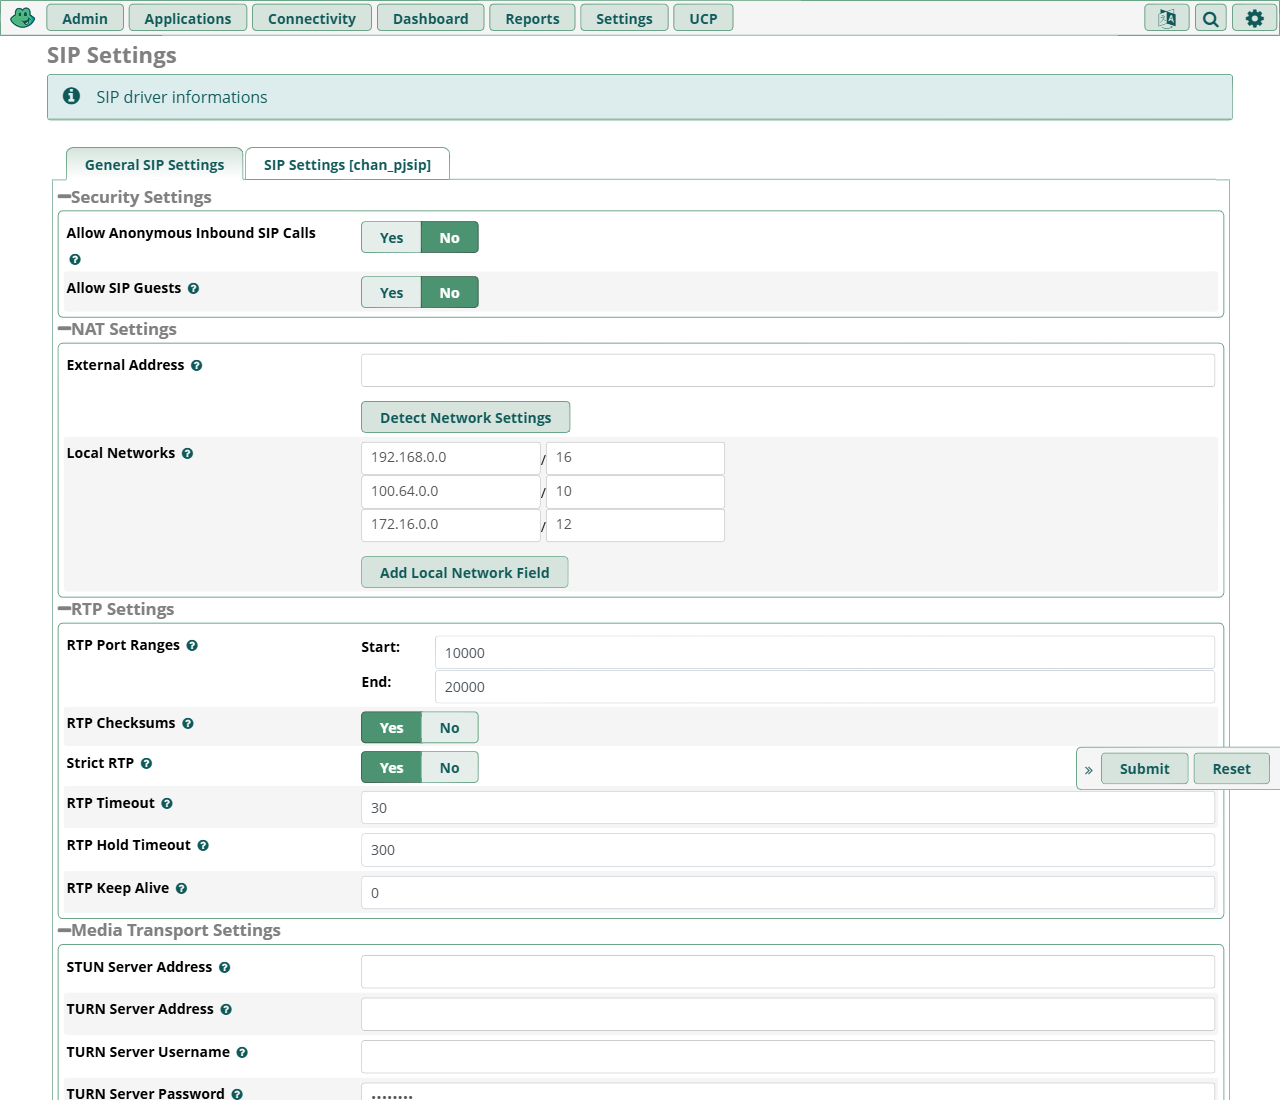
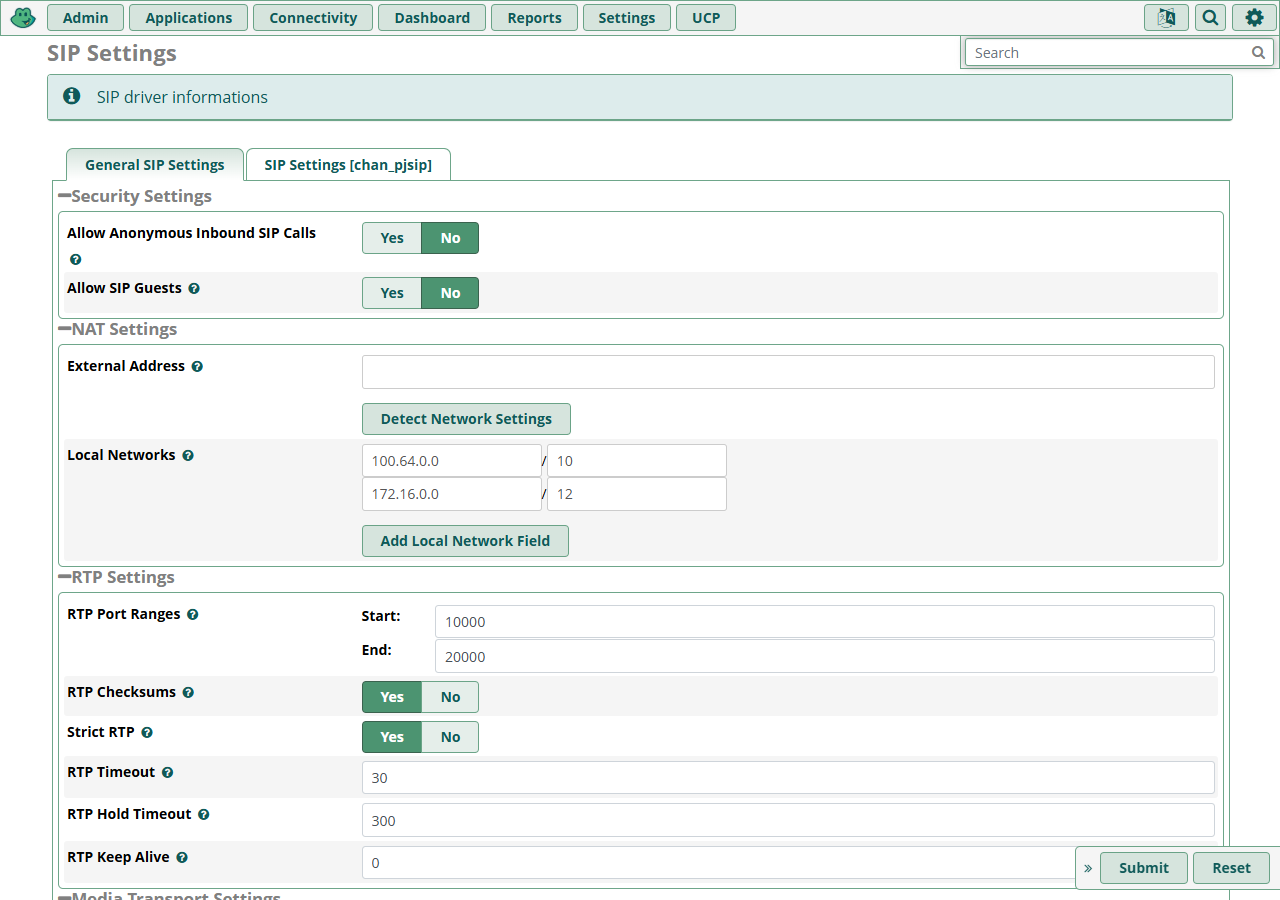
docs: capturas de la PBX en clase B, sesion del 26/10 y checklist para la replica del sabado
Capturas 04, 15 y 23 retomadas tras quitar las redes 192.168.x del firewall y de SIP. Nueva figura 50 con el CDR del 26/10. CHECKLIST-SABADO.md con el orden de armado, las pruebas y las capturas de Winbox pendientes. pruebas/Captura.ps1 guarda la ventana activa en capturas/ con el nombre de la figura.

diff --git a/CHECKLIST-SABADO.md b/CHECKLIST-SABADO.md
@@ -1,0 +1,139 @@
+# Checklist del sábado. Armar, probar y capturar
+
+**Centro Médico Horizonte, S.A. · PF-TEL-001-2026**
+Preparado el 27/10/2026 para la réplica del sábado 31/10.
+
+Todo lo de la PBX ya está listo y capturado. Lo único que falta depende del router armado. Esta lista dice en qué orden hacerlo para que salga a la primera. Las pruebas en detalle están en [`PRUEBAS-ENTREGA.md`](PRUEBAS-ENTREGA.md).
+
+---
+
+## 1. Qué llevar
+
+| Equipo | Para qué |
+|---|---|
+| hEX RB750Gr3 con su fuente | Router, VLAN, firewall y QoS |
+| AP Mercusys MW325R con su fuente | Wi-Fi `CMH-Voz` para los celulares |
+| 3 cables de red | ether2 al AP, AP a la laptop host y ether4 a la laptop del compañero |
+| Xiaomi 11T y su cable USB | Internet del router (anclaje USB) |
+| Laptop host (Isaac) | VM de la PBX, Linphone 5001, iperf3 servidor y Winbox |
+| Laptop del compañero | Linphone 4001, iperf3 cliente y `pruebas/Probar-Vlan.ps1` |
+| 2 celulares con Linphone | Extensiones 3001 y 5002 con dominio `172.16.20.10` |
+
+---
+
+## 2. Encendido, en este orden
+
+1. **Xiaomi.** Datos móviles encendidos y el cable al USB del hEX. Activar *Anclaje USB* en el celular.
+2. **hEX.** Encenderlo y esperar un minuto. En Winbox se ve `lte1` con IP en *IP → DHCP Client*.
+3. **AP.** Cable de ether2 del hEX a un puerto LAN del AP (en modo punto de acceso no se usa el WAN). Su IP es 172.16.20.2 y su DHCP sigue apagado.
+4. **Laptop host.** Cable a un puerto LAN del AP, Wi-Fi apagado. `ipconfig` debe dar **172.16.20.20**.
+5. **VM de la PBX.** En PowerShell:
+   ```powershell
+   & "C:\Program Files\Oracle\VirtualBox\VBoxManage.exe" startvm CMH-FreePBX --type headless
+   ```
+   Tarda unos **4 minutos** en quedar lista (el servicio `freepbx` pasa de *activating* a *active*). Antes de eso los teléfonos no registran.
+6. **Celulares.** Wi-Fi `CMH-Voz`, IP 172.16.20.1xx. Linphone en verde.
+7. **Laptop del compañero.** Cable en **ether4**, Wi-Fi apagado, `ipconfig /renew`. IP 172.16.30.1xx. Linphone 4001 en verde.
+
+**Revisión rápida (2 minutos).** Desde la laptop host:
+
+```powershell
+ping 172.16.20.10
+ssh -t -i "$env:USERPROFILE\.ssh\cmh_pbx_ed25519" -p 2222 cmhadmin@127.0.0.1 "sudo asterisk -rx 'pjsip show contacts'; sudo asterisk -rx 'pjsip show registrations'"
+```
+
+Deben salir los teléfonos con *Avail* y la troncal `sip2sip` en *Registered*. Si un teléfono no registra por contraseñas malas, está bloqueado por fail2ban (ver la nota de la sección 1 de `PRUEBAS-ENTREGA.md`).
+
+---
+
+## 3. Pruebas, en este orden
+
+| Paso | Qué | Dónde está el detalle |
+|---|---|---|
+| 1 | Evidencia del router **antes**, con contadores en cero | `PRUEBAS-ENTREGA.md` sección 3, paso 1 |
+| 2 | `Probar-Vlan.ps1` en ether4 (Admin), en la laptop host (Voz) y en ether5 (Invitados) | Sección 3 |
+| 3 | Ronda de llamadas TEL-01 a TEL-11 | Sección 4 |
+| 4 | Evidencia del router **después** | Sección 3, paso 3 |
+| 5 | QoS con y sin prioridad | Sección 5 |
+| 6 | Extras E1, E3 y una función del E4 | Sección 6 |
+
+---
+
+## 4. Capturas pendientes
+
+Las capturas del hEX que hay en `capturas/` son del 20/10, todavía con 192.168.x. Se reemplazan con **el mismo nombre de archivo**, así la `GUIA-DEMO.md` las muestra sola sin editarla.
+
+**Cómo capturar.** En la laptop conectada a **ether3** (Gestión), abrir la pantalla en Winbox y en PowerShell, desde la carpeta `pruebas`:
+
+```powershell
+.\Captura.ps1 34-hex-direcciones
+```
+
+El script espera 3 segundos para pasar a la ventana (Alt+Tab), captura solo esa ventana y la guarda en `capturas/` con ese nombre. Con `-PantallaCompleta` toma toda la pantalla.
+
+### 4.1 Router hEX (Winbox desde ether3)
+
+| Archivo | Ruta en Winbox | Qué debe verse |
+|---|---|---|
+| `30-hex-sistema-usuarios` | *New Terminal*: `/system resource print`, `/system routerboard print`, `/user print`, `/ip firewall service-port print where name=sip` | RouterOS 7.24.x, solo el usuario `cmh-ti` y SIP ALG con X |
+| `31-hex-interfaces` | *Interfaces → Interface* | `br-lan`, las cuatro VLAN, ether1 a ether5 y **`lte1`** |
+| `33-hex-bridge-vlan` | *Bridge → VLANs* | VLAN 10, 20, 30 y 40 con su puerto sin etiqueta (VLAN-01) |
+| `34-hex-direcciones` | *IP → Addresses* | 172.16.10.1, 172.16.20.1, 172.16.30.1 y 172.16.40.1, todas /24 |
+| `35a-hex-dhcp-servidores` | *IP → DHCP Server → DHCP* | Cuatro servidores, uno por VLAN |
+| `35b-hex-dhcp-leases` | *IP → DHCP Server → Leases* | PBX 172.16.20.10, laptop host .20, celulares y laptop del compañero en .1xx (VLAN-03) |
+| `36-hex-firewall-filter` | *IP → Firewall → Filter Rules*, después de las llamadas | M2 y M3 con paquetes, M6 con los bloqueos |
+| `37-hex-nat` | *IP → Firewall → NAT* | Masquerade hacia la lista `WAN` (incluye `lte1`) |
+| `38-hex-mangle` | *IP → Firewall → Mangle* | Marcado EF, CS3 y AF21 |
+| `39-hex-queue-tree` | *Queues → Queue Tree* | `q-wan` con parent **`lte1`** y las colas de prioridad activas |
+| `40-hex-servicios` | *IP → Services* | Winbox y SSH solo desde 172.16.10.0/24 |
+| `42-hex-wan-lte1` (nueva) | *IP → DHCP Client* | `lte1` en *bound* con la IP que da el Xiaomi |
+
+`30b`, `32` y `37b` no cambian con la migración y se pueden dejar.
+
+### 4.2 Punto de acceso (navegador en `http://172.16.20.2`)
+
+| Archivo | Pantalla | Qué debe verse |
+|---|---|---|
+| `41-ap-lan` | *Network → LAN* | IP fija 172.16.20.2, puerta de enlace 172.16.20.1 |
+| `43-ap-wifi` (nueva) | *Wireless* | SSID `CMH-Voz`, WPA2-PSK AES, canal fijo, WPS apagado. **Contraseña oculta** |
+
+### 4.3 PBX y teléfonos
+
+| Archivo | Dónde | Qué debe verse |
+|---|---|---|
+| `20-telefonos-registrados` | FreePBX, *Reports → Asterisk Info → Peers* (en `http://127.0.0.1:18080` desde la laptop host) | Al menos 4 extensiones en *Avail* con IP 172.16.x (§5.7) |
+| `55-sesion-cdr-sabado` (nueva) | FreePBX, *Reports → CDR Reports* con la fecha del sábado | Las llamadas de la ronda TEL-01 a TEL-11 |
+| `56-linphone-4001` (nueva) | Linphone en la laptop del compañero | Cuenta 4001 en verde con dominio 172.16.20.10 (VLAN-04) |
+
+### 4.4 Pruebas de red
+
+| Archivo | Dónde | Qué debe verse |
+|---|---|---|
+| `60-acl-vlan30-admin` | Terminal de `Probar-Vlan.ps1` en ether4 | 11 de 11 *Cumple* |
+| `61-acl-vlan20-voz` | Terminal de `Probar-Vlan.ps1` en la laptop host | 8 de 8 *Cumple* |
+| `62-acl-vlan40-invitados` | Terminal de `Probar-Vlan.ps1` en ether5 | Todas *Cumple* |
+| `63-qos-con-prioridad` | Terminal del iperf3 de 69k, ronda con QoS | Pérdida cercana a 0 % |
+| `64-qos-sin-prioridad` | Terminal del iperf3 de 69k, ronda sin QoS | Pérdida alta |
+| `65-qos-colas` | Winbox, `/queue tree print stats where name~"q-voz"` | Paquetes de voz sin descartes |
+
+Las fotos de los celulares (IP del Wi-Fi para VLAN-05 y llamadas con la hora visible) se pasan a `capturas/` con nombres que empiecen en `57-`.
+
+---
+
+## 5. Archivos que hay que recoger
+
+- El `.md` que deja `Probar-Vlan.ps1` en la laptop del compañero (carpeta `resultados` junto al script). Va a `pruebas/resultados/`. **El del 26/10 desde Admin (`vlan30-20261026-175225.md`) no se alcanzó a copiar**, así que el del sábado lo reemplaza.
+- Las carpetas `pruebas/evidencias/router-...-antes` y `...-despues` que crea `Evidencia-Router.ps1`. Si la llave del hEX no está importada, el encabezado del script dice cómo hacerlo.
+
+---
+
+## 6. Al terminar
+
+```powershell
+cd C:\Users\Asus\Projects\cmh-horizonte
+git add capturas pruebas
+git commit -m "test: replica del 31/10 con capturas del hEX en clase B"
+git push
+```
+
+Antes de salir, apagar la VM con `VBoxManage controlvm CMH-FreePBX acpipowerbutton` para no dañar la base de datos.

diff --git a/GUIA-DEMO.md b/GUIA-DEMO.md
@@ -1,15 +1,16 @@
 # GUÍA DEMO · Documentación de lo realizado
 **Centro Médico Horizonte, S.A. · PF-TEL-001-2026**
-Última actualización: 23/10/2026
+Última actualización: 27/10/2026
 
 Registro visual de todo lo configurado en el proyecto, para el equipo y para la defensa. Cada captura indica su ruta dentro del sistema y explica qué se hizo y por qué. El avance se agrega por componente.
 
 | Componente | Estado | Sección |
 |---|---|---|
 | PBX FreePBX en máquina virtual | Configurada y probada con llamadas reales, extras E1, E3 y E4 completos | 2 a 7 |
-| Router MikroTik RB750Gr3 (hEX) | VLAN, DHCP, NAT, firewall y QoS cargados (20/10). Faltan las pruebas y las mediciones | 8 |
+| Router MikroTik RB750Gr3 (hEX) | Migrado a clase B y con `lte1` como WAN (26/10). ACL y QoS probadas el 26/10. Las capturas de Winbox se rehacen el 31/10 | 8 y 13 |
 | Punto de acceso Mercusys MW325R | En modo AP con `CMH-Voz` en la VLAN 20 (20/10). Falta la captura del Wi-Fi | 9 |
 | Sesión de pruebas con el equipo | Pruebas 1 a 17 y 19 completas el 23/10. La 18 y la 20 con evidencia del 19 y 20/10 | 12 |
+| Sesión con el router en clase B | Llamadas entre VLAN, buzón, IVR, ACL y QoS el 26/10 | 13 |
 
 > Las capturas están en la carpeta `capturas/` y no muestran contraseñas. Para verlas dentro de este documento se recomienda un visor de Markdown, por ejemplo GitHub o VS Code (**Ctrl+Shift+V**). Las extensiones de cada integrante y las pruebas por persona están en `GUIA-CELULARES.md`.
 
@@ -161,7 +162,7 @@ Registro visual de todo lo configurado en el proyecto, para el equipo y para la 
 
 ![Redes Trusted y Local](capturas/15-firewall-redes.png)
 
-> **Qué se hizo.** Se activó el firewall de FreePBX y se definieron las redes de confianza. En **Trusted** (acceso total) quedaron la laptop que administra la VM (10.0.2.2) y la VLAN 10 de Gestión. En **Local** (solo teléfonos) quedaron la VLAN 20 de Voz, la VLAN 30 Administrativa, Tailscale y las redes de prueba. Cualquier otra red cae en la zona *Internet*, sin acceso.
+> **Qué se hizo.** Se activó el firewall de FreePBX y se definieron las redes de confianza. En **Trusted** (acceso total) quedaron la laptop que administra la VM (10.0.2.2) y la VLAN 10 de Gestión (172.16.10.0/24). En **Local** (solo teléfonos) quedaron la VLAN 20 de Voz (172.16.20.0/24), la VLAN 30 Administrativa (172.16.30.0/24), Tailscale y las redes de prueba. Cualquier otra red cae en la zona *Internet*, sin acceso. La captura es del 27/10, después de quitar las redes 192.168.x del diseño anterior.
 
 **Figura 20. Servicios permitidos por zona.** Ruta: *Connectivity → Firewall → Services*
 
@@ -220,7 +221,7 @@ Los teléfonos usados son **MicroSIP** en laptop y **Linphone** en celulares. La
 
 ![Redes de Tailscale y de prueba](capturas/23-e1-firewall-redes.png)
 
-> **Qué se hizo.** La red de Tailscale (**100.64.0.0/10**) está en zona Local. Se agregó también la red **192.168.1.0/24** para pruebas fuera del router. Con el router instalado, los teléfonos entran por las VLAN 20 y 30, que ya están en la lista.
+> **Qué se hizo.** La red de Tailscale (**100.64.0.0/10**) está en zona Local. Se agregaron también la red **192.168.1.0/24** y el hotspot del iPhone (172.20.10.0/28) para pruebas fuera del router. Con el router instalado, los teléfonos entran por las VLAN 20 y 30 en clase B (172.16.20.0/24 y 172.16.30.0/24), que ya están en la lista.
 
 **Figura 27. Llamada de prueba desde datos móviles.** Ruta: *Reports → CDR Reports*
 
@@ -272,7 +273,9 @@ Los teléfonos usados son **MicroSIP** en laptop y **Linphone** en celulares. La
 
 ## 8. Router MikroTik RB750Gr3 (hEX)
 
-Configurado el 20/10 con RouterOS 7.24.5 y los tres scripts de `plan/02_RED_MIKROTIK_HEX_Y_AP.md` (base, firewall y QoS). Las capturas son de Winbox, conectado desde la VLAN 10 de Gestión. Faltan las mediciones de QoS con y sin prioridad.
+Configurado el 20/10 con RouterOS 7.24.5 y los tres scripts de `plan/02_RED_MIKROTIK_HEX_Y_AP.md` (base, firewall y QoS). El 26/10 se migró a clase B (172.16.0.0/12) y la salida a internet pasó al celular por USB (`lte1`). Las mediciones de QoS están en la sección 13.
+
+> **Nota.** Las figuras 28 a 42 se tomaron el 20/10, antes de la migración, y por eso muestran 192.168.x. Los textos ya describen la red en clase B. Las capturas se reemplazan con el mismo nombre de archivo en la réplica del 31/10 (lista en `CHECKLIST-SABADO.md`).
 
 **Figura 28. Sistema, firmware y usuarios.** Ruta: *New Terminal*
 
@@ -475,3 +478,26 @@ Configurado el 20/10. Está conectado a ether2 del hEX, así que todo lo que ent
 ![Registro de intentos fallidos de la 1001](capturas/53-intentos-fallidos-1001-20oct.png)
 
 > **Qué se ve.** Es el archivo que vigila fail2ban. El 20/10, a las 12:34 y 12:47, un celular intentó registrarse como la **1001** con una contraseña equivocada. Cada intento queda como *Failed to authenticate* con la IP de origen. Al pasar de 5 intentos en 10 minutos, fail2ban bloqueó ese equipo durante 30 minutos. Es la misma protección que pide la prueba 20.
+
+---
+
+## 13. Sesión con el router en clase B (26/10)
+
+Primera sesión con la red completa ya migrada a clase B. La laptop de un compañero se conectó a **ether4** (VLAN 30 Administrativa) con la extensión **4001**, la laptop host quedó en la VLAN de Voz con la **5001** y dos celulares en el Wi-Fi `CMH-Voz` con la **3001** y la **5002**. La salida a internet fue el Xiaomi 11T por USB.
+
+**Figura 50. Llamadas del 26/10.** Ruta: *Reports → CDR Reports*, del 26/10 a las 00:00 al 26/10 a las 23:59
+
+![CDR del 26/10 con llamadas entre VLAN](capturas/54-sesion-cdr-26oct.png)
+
+> **Qué se ve.** Todas las llamadas entre la **4001** (Administración, VLAN 30) y las extensiones de la VLAN de Voz se contestaron, lo que prueba el enrutamiento entre VLAN y las reglas M2 y M3 del router. Entre las 16:44 y las 16:48 están la espera y las transferencias (filas *Return* y *Hangup*), a las 16:47 una llamada sin contestar que terminó en el buzón, a las 16:49 y 16:50 las consultas con **\*97** y a las 16:52 el recorrido del **IVR** (*BackGround* en `ivr-1`) que terminó en la 1000. Las dos llamadas largas de las 18:09 y 18:14 (2:58 y 2:22) son las que se mantuvieron activas durante la prueba de QoS.
+
+**Resultados medidos ese día.**
+
+| Prueba | Resultado | Archivo |
+|---|---|---|
+| Matriz de ACL desde Voz | 8 de 8 *Cumple* | `pruebas/resultados/vlan20-20261026-174345.md` |
+| Matriz de ACL desde Admin | 11 de 11 *Cumple*, confirmado con el registro del router a las 17:52 | Se repite el 31/10 para guardar el informe |
+| QoS con prioridad | 0 % de pérdida de voz (0 de 3010 paquetes) y jitter de 0,148 ms | `pruebas/resultados/qos-20261026.md` |
+| QoS sin prioridad (FIFO) | 9,4 % de pérdida de voz (283 de 3009 paquetes) | `pruebas/resultados/qos-20261026.md` |
+
+Con prioridad, el router descartó más de cien mil paquetes de la saturación y ninguno de voz. Sin prioridad, la voz perdió casi diez veces el límite del 1 % que pide el PDF.

diff --git a/README.md b/README.md
@@ -34,7 +34,10 @@ cmh-horizonte/
 ├── GUIA-DEMO.md     Documentación de lo realizado (PBX, E1, router y AP) con capturas
 ├── GUIA-CELULARES.md  Extensión de cada integrante, configuración de Tailscale y Linphone, y pruebas por persona
 ├── CONFIG.md        Operación de la PBX: encender, rutas, comandos, respaldos, estado y pendientes
-├── capturas/        27 capturas de FreePBX que usa la guía (sin contraseñas)
+├── PRUEBAS-ENTREGA.md  Pruebas de VLAN, ACL, llamadas, QoS y extras para el día de la entrega
+├── CHECKLIST-SABADO.md Orden para armar, probar y capturar en la réplica del 31/10
+├── capturas/        Capturas de FreePBX, del hEX, del AP y de las sesiones de prueba (sin contraseñas)
+├── pruebas/         Scripts de prueba y captura (Probar-Vlan, Evidencia-Router, Captura) y sus resultados
 └── plan/            Plan del grupo, validado contra el PDF
     ├── 00  Índice, roles y cronograma
     ├── 01  Diseño de la solución (investigación, VLAN, IP, numeración)
@@ -57,12 +60,12 @@ cmh-horizonte/
 - **Teléfonos.** MicroSIP en laptops y Linphone en celulares.
 - **Extras.** E1 acceso desde red pública con Tailscale, E3 troncal SIP con sip2sip y E4 funciones avanzadas. E2 (SDN) no se implementa.
 
-## Estado al 20/10
+## Estado al 27/10
 
-- **La PBX está completa.** Extensiones, IVR, buzones, firewall, respaldos y sistema al día. Ya hubo llamadas reales del equipo por Tailscale.
+- **La PBX está completa.** Extensiones, IVR, buzones, firewall, respaldos y sistema al día. Redes del firewall y de SIP ya en clase B.
 - **Extras listos:** E1 (Tailscale), E3 (troncal sip2sip, entrante al IVR y saliente con 9100) y E4 (5 de 5, incluido el buzón por correo).
-- **Router y AP:** configurados el 20/10 (VLAN, DHCP, NAT, firewall, QoS y Wi-Fi `CMH-Voz`). Falta probar el firewall entre VLAN, las llamadas entre VLAN y medir la QoS.
-- **Por hacer:** sesión de pruebas con el router y la matriz (`plan/09`), informe y presentación.
+- **Router y AP:** migrados a clase B (172.16.0.0/12) el 26/10, con el celular por USB como WAN. Llamadas entre VLAN, matriz de ACL (8 de 8 desde Voz y 11 de 11 desde Admin) y QoS bajo congestión (0 % de pérdida de voz con QoS y 9,4 % sin QoS) probadas.
+- **Por hacer:** réplica del 31/10 con las capturas de Winbox en clase B ([`CHECKLIST-SABADO.md`](CHECKLIST-SABADO.md)), informe y presentación.
 
 El detalle por criterio está en [`CONFIG.md`, sección 11](CONFIG.md#11-estado-frente-al-pdf).
 

diff --git a/PRUEBAS-ENTREGA.md b/PRUEBAS-ENTREGA.md
@@ -2,7 +2,9 @@
 
 **Qué se ejecuta y qué se muestra.** Las secciones 2 a 5 (VLAN, ACL, llamadas y QoS) se **ejecutan** en vivo el día de la entrega, igual que el 26/10. La sección 6 (extras E1, E3 y E4) ya está implementada y solo se **muestra** con una llamada de ejemplo y su pantalla en FreePBX.
 
-**Resultados del 26/10, ya con clase B.** Matriz de ACL desde Admin 11 de 11 y desde Voz 8 de 8 (`pruebas/resultados/vlan30-*.md` y `vlan20-*.md`). QoS con 0 % de pérdida de voz frente a 9,4 % sin QoS (`pruebas/resultados/qos-20261026.md`).
+**Resultados del 26/10, ya con clase B.** Matriz de ACL desde Admin 11 de 11 (confirmada con el registro del router, el informe se guarda en la réplica del 31/10) y desde Voz 8 de 8 (`pruebas/resultados/vlan20-20261026-174345.md`). QoS con 0 % de pérdida de voz frente a 9,4 % sin QoS (`pruebas/resultados/qos-20261026.md`).
+
+El orden de armado y la lista de capturas pendientes para la réplica del 31/10 están en [`CHECKLIST-SABADO.md`](CHECKLIST-SABADO.md).
 
 Guía corta para hacer las pruebas igual hoy y el día de la entrega. Cada prueba dice dónde se hace, qué se hace, qué debe pasar y qué se muestra o captura. Las referencias (§) son del documento del proyecto PF-TEL-001-2026.
 
